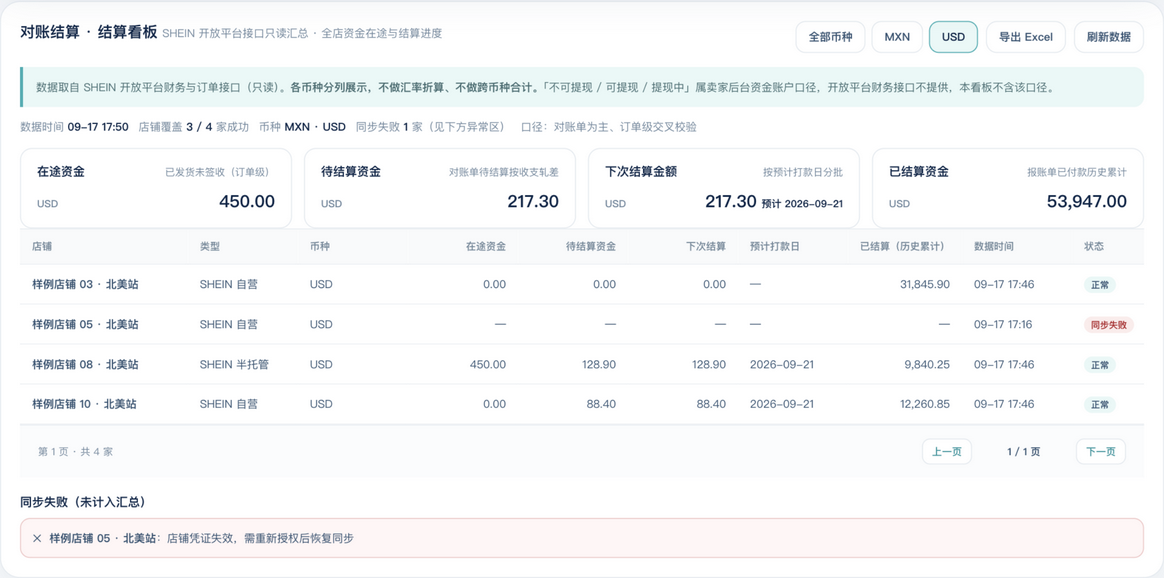
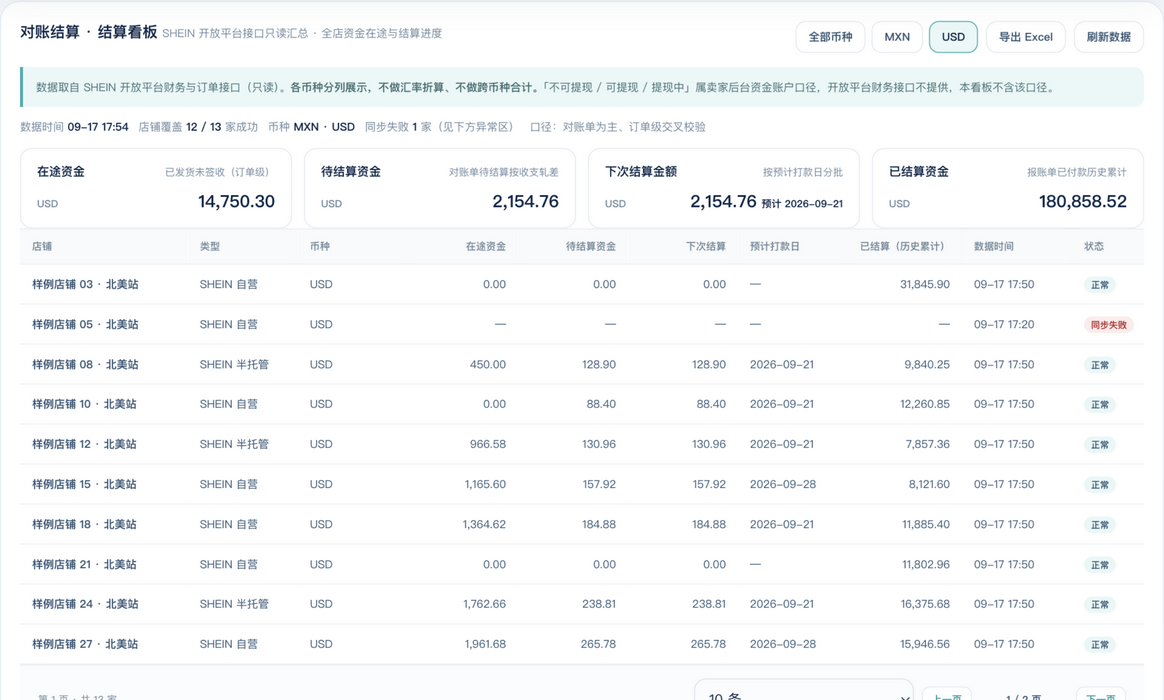
feat(finance): 结算看板店铺列表支持每页 10/30/50 条
- 分页控件新增每页条数下拉（10/30/50），沿用店铺授权模块先例：
  切换后回到第 1 页（避免停在不存在的页码），选择持久化到本机
  localStorage（xynigo.settleDashboard.pageSize），重新打开沿用上次选择
- 原固定 8 条/页改为按状态取值；翻页边界与按钮禁用态同步按当前条数计算
- 演示数据由 10 家补齐到 36 家：条数少于此前的固定值时看不出 10/30/50
  的差别，补齐后 10 条=4 页、30 条=2 页、50 条=1 页，便于评审直观核对；
  取值按下标确定性生成（不用随机数），保证每次刷新与截图可复现
- 新增截图 03-每页条数-30.png；需求文档补录分页条数说明

diff --git a/cloud/auth-service/src/xynigo_auth/web/index.html b/cloud/auth-service/src/xynigo_auth/web/index.html
@@ -3610,6 +3610,9 @@ body:has(#procurementImportPanel:not(.hidden)) main>.hero{display:none}
       <div class="procurement-pagination">
         <span class="procurement-pagination-copy" id="settlePageInfo">—</span>
         <div class="procurement-pagination-actions">
+          <select id="settlePageSize" aria-label="每页显示店铺数">
+            <option value="10">10 条</option><option value="30">30 条</option><option value="50">50 条</option>
+          </select>
           <button class="btn-mini" id="btnSettlePrev" type="button" disabled>上一页</button>
           <span id="settlePageIndicator">—</span>
           <button class="btn-mini" id="btnSettleNext" type="button" disabled>下一页</button>
@@ -13704,13 +13707,27 @@ function setFeaturePanel(module) {
  */
 let settleDashboardLoaded = false;
 const SETTLE_CURRENCY_LABELS = { MXN: '墨西哥比索', USD: '美元' };
-const SETTLE_PAGE_SIZE = 8;
-const SETTLE_STATE = { currency: 'ALL', page: 1, stores: null, refreshedAt: null };
+const SETTLE_PAGE_SIZES = [10, 30, 50];
+const SETTLE_PAGE_SIZE_KEY = 'xynigo.settleDashboard.pageSize';
+const SETTLE_STATE = {
+  currency: 'ALL', page: 1, pageSize: 10, stores: null, refreshedAt: null
+};
+
+function settleLoadPageSize() {
+  try {
+    const v = Number(localStorage.getItem(SETTLE_PAGE_SIZE_KEY));
+    if (SETTLE_PAGE_SIZES.includes(v)) SETTLE_STATE.pageSize = v;
+  } catch (e) { /* 忽略本地存储异常 */ }
+}
+
+function settleSavePageSize(v) {
+  try { localStorage.setItem(SETTLE_PAGE_SIZE_KEY, String(v)); } catch (e) { /* 忽略 */ }
+}
 
 function settleMockStores() {
   const fresh = Date.now() - 4 * 60 * 1000;
   const stale = Date.now() - 34 * 60 * 1000;
-  return [
+  const rows = [
     { name: '样例店铺 01 · 拉美站', mode: 'SHEIN 自营', currency: 'MXN',
       inTransit: 4820.50, unsettled: 945.16, nextSettle: 945.16,
       nextPayDate: '2026-09-21', settled: 48620.35, at: fresh, status: 'ok', note: '' },
@@ -13746,6 +13763,31 @@ function settleMockStores() {
       inTransit: 0.00, unsettled: 88.40, nextSettle: 88.40,
       nextPayDate: '2026-09-21', settled: 12260.85, at: fresh, status: 'ok', note: '' }
   ];
+  // 原型需要足够行数才能体现每页 10/30/50 条的差别，故补齐到 36 家；
+  // 取值按下标确定性生成（不用随机数），保证每次刷新与截图可复现。
+  const duePool = ['2026-09-21', '2026-09-28'];
+  for (let i = 11; i <= 36; i += 1) {
+    const mxn = i % 3 !== 0;                 // 约 2/3 为比索店
+    const currency = mxn ? 'MXN' : 'USD';
+    const base = mxn ? 900 + i * 137.25 : 55 + i * 21.40;
+    const idle = i % 7 === 0;                // 少数店铺当前无在途/待结算
+    const amount = idle ? 0 : Number((base * 0.42).toFixed(2));
+    const flagged = i % 11 === 0;
+    rows.push({
+      name: `样例店铺 ${String(i).padStart(2, '0')} · ${mxn ? '拉美站' : '北美站'}`,
+      mode: i % 4 === 0 ? 'SHEIN 半托管' : 'SHEIN 自营',
+      currency,
+      inTransit: idle ? 0 : Number((base * 3.10).toFixed(2)),
+      unsettled: amount,
+      nextSettle: amount,
+      nextPayDate: idle ? '' : duePool[i % 2],
+      settled: Number((base * (12 + (i % 5)) * 1.80).toFixed(2)),
+      at: fresh,
+      status: flagged ? 'warn' : 'ok',
+      note: flagged ? '对账单存在支出行，订单侧不回更；已按对账单轧差修正' : ''
+    });
+  }
+  return rows;
 }
 
 function settleMoney(value) {
@@ -13866,10 +13908,11 @@ function settleRenderTable() {
   const body = $('settleStoreTbody');
   if (!body) return;
   const stores = settleScopedStores();
-  const pages = Math.max(1, Math.ceil(stores.length / SETTLE_PAGE_SIZE));
+  const pageSize = SETTLE_STATE.pageSize;
+  const pages = Math.max(1, Math.ceil(stores.length / pageSize));
   if (SETTLE_STATE.page > pages) SETTLE_STATE.page = pages;
-  const start = (SETTLE_STATE.page - 1) * SETTLE_PAGE_SIZE;
-  const rows = stores.slice(start, start + SETTLE_PAGE_SIZE);
+  const start = (SETTLE_STATE.page - 1) * pageSize;
+  const rows = stores.slice(start, start + pageSize);
   if (!rows.length) {
     body.innerHTML = '<tr><td colspan="10" class="admin-empty">当前币种下没有已授权店铺</td></tr>';
   } else {
@@ -14021,17 +14064,30 @@ function refreshSettlementDashboard() {
 }
 
 function initSettlementDashboard() {
+  settleLoadPageSize();
   refreshSettlementDashboard();
   $('btnSettleExport').onclick = () => exportSettlementDashboard();
   $('btnSettleRefresh').onclick = () => {
     refreshSettlementDashboard();
     toast('结算看板已刷新（原型演示数据）');
   };
+  const sizeSel = $('settlePageSize');
+  if (sizeSel) {
+    sizeSel.value = String(SETTLE_STATE.pageSize);
+    sizeSel.onchange = () => {
+      const picked = Number(sizeSel.value);
+      SETTLE_STATE.pageSize = SETTLE_PAGE_SIZES.includes(picked) ? picked : 10;
+      settleSavePageSize(SETTLE_STATE.pageSize);
+      SETTLE_STATE.page = 1; // 每页条数变化后回到第 1 页，避免停在不存在的页码
+      settleRenderTable();
+    };
+  }
   $('btnSettlePrev').onclick = () => {
     if (SETTLE_STATE.page > 1) { SETTLE_STATE.page -= 1; settleRenderTable(); }
   };
   $('btnSettleNext').onclick = () => {
-    const pages = Math.max(1, Math.ceil(settleScopedStores().length / SETTLE_PAGE_SIZE));
+    const pages = Math.max(1,
+      Math.ceil(settleScopedStores().length / SETTLE_STATE.pageSize));
     if (SETTLE_STATE.page < pages) { SETTLE_STATE.page += 1; settleRenderTable(); }
   };
 }

diff --git a/docs/prototypes/20260917-settlement-dashboard/本地预览-结算看板.html b/docs/prototypes/20260917-settlement-dashboard/本地预览-结算看板.html
@@ -3610,6 +3610,9 @@ body:has(#procurementImportPanel:not(.hidden)) main>.hero{display:none}
       <div class="procurement-pagination">
         <span class="procurement-pagination-copy" id="settlePageInfo">—</span>
         <div class="procurement-pagination-actions">
+          <select id="settlePageSize" aria-label="每页显示店铺数">
+            <option value="10">10 条</option><option value="30">30 条</option><option value="50">50 条</option>
+          </select>
           <button class="btn-mini" id="btnSettlePrev" type="button" disabled>上一页</button>
           <span id="settlePageIndicator">—</span>
           <button class="btn-mini" id="btnSettleNext" type="button" disabled>下一页</button>
@@ -13704,13 +13707,27 @@ function setFeaturePanel(module) {
  */
 let settleDashboardLoaded = false;
 const SETTLE_CURRENCY_LABELS = { MXN: '墨西哥比索', USD: '美元' };
-const SETTLE_PAGE_SIZE = 8;
-const SETTLE_STATE = { currency: 'ALL', page: 1, stores: null, refreshedAt: null };
+const SETTLE_PAGE_SIZES = [10, 30, 50];
+const SETTLE_PAGE_SIZE_KEY = 'xynigo.settleDashboard.pageSize';
+const SETTLE_STATE = {
+  currency: 'ALL', page: 1, pageSize: 10, stores: null, refreshedAt: null
+};
+
+function settleLoadPageSize() {
+  try {
+    const v = Number(localStorage.getItem(SETTLE_PAGE_SIZE_KEY));
+    if (SETTLE_PAGE_SIZES.includes(v)) SETTLE_STATE.pageSize = v;
+  } catch (e) { /* 忽略本地存储异常 */ }
+}
+
+function settleSavePageSize(v) {
+  try { localStorage.setItem(SETTLE_PAGE_SIZE_KEY, String(v)); } catch (e) { /* 忽略 */ }
+}
 
 function settleMockStores() {
   const fresh = Date.now() - 4 * 60 * 1000;
   const stale = Date.now() - 34 * 60 * 1000;
-  return [
+  const rows = [
     { name: '样例店铺 01 · 拉美站', mode: 'SHEIN 自营', currency: 'MXN',
       inTransit: 4820.50, unsettled: 945.16, nextSettle: 945.16,
       nextPayDate: '2026-09-21', settled: 48620.35, at: fresh, status: 'ok', note: '' },
@@ -13746,6 +13763,31 @@ function settleMockStores() {
       inTransit: 0.00, unsettled: 88.40, nextSettle: 88.40,
       nextPayDate: '2026-09-21', settled: 12260.85, at: fresh, status: 'ok', note: '' }
   ];
+  // 原型需要足够行数才能体现每页 10/30/50 条的差别，故补齐到 36 家；
+  // 取值按下标确定性生成（不用随机数），保证每次刷新与截图可复现。
+  const duePool = ['2026-09-21', '2026-09-28'];
+  for (let i = 11; i <= 36; i += 1) {
+    const mxn = i % 3 !== 0;                 // 约 2/3 为比索店
+    const currency = mxn ? 'MXN' : 'USD';
+    const base = mxn ? 900 + i * 137.25 : 55 + i * 21.40;
+    const idle = i % 7 === 0;                // 少数店铺当前无在途/待结算
+    const amount = idle ? 0 : Number((base * 0.42).toFixed(2));
+    const flagged = i % 11 === 0;
+    rows.push({
+      name: `样例店铺 ${String(i).padStart(2, '0')} · ${mxn ? '拉美站' : '北美站'}`,
+      mode: i % 4 === 0 ? 'SHEIN 半托管' : 'SHEIN 自营',
+      currency,
+      inTransit: idle ? 0 : Number((base * 3.10).toFixed(2)),
+      unsettled: amount,
+      nextSettle: amount,
+      nextPayDate: idle ? '' : duePool[i % 2],
+      settled: Number((base * (12 + (i % 5)) * 1.80).toFixed(2)),
+      at: fresh,
+      status: flagged ? 'warn' : 'ok',
+      note: flagged ? '对账单存在支出行，订单侧不回更；已按对账单轧差修正' : ''
+    });
+  }
+  return rows;
 }
 
 function settleMoney(value) {
@@ -13866,10 +13908,11 @@ function settleRenderTable() {
   const body = $('settleStoreTbody');
   if (!body) return;
   const stores = settleScopedStores();
-  const pages = Math.max(1, Math.ceil(stores.length / SETTLE_PAGE_SIZE));
+  const pageSize = SETTLE_STATE.pageSize;
+  const pages = Math.max(1, Math.ceil(stores.length / pageSize));
   if (SETTLE_STATE.page > pages) SETTLE_STATE.page = pages;
-  const start = (SETTLE_STATE.page - 1) * SETTLE_PAGE_SIZE;
-  const rows = stores.slice(start, start + SETTLE_PAGE_SIZE);
+  const start = (SETTLE_STATE.page - 1) * pageSize;
+  const rows = stores.slice(start, start + pageSize);
   if (!rows.length) {
     body.innerHTML = '<tr><td colspan="10" class="admin-empty">当前币种下没有已授权店铺</td></tr>';
   } else {
@@ -14021,17 +14064,30 @@ function refreshSettlementDashboard() {
 }
 
 function initSettlementDashboard() {
+  settleLoadPageSize();
   refreshSettlementDashboard();
   $('btnSettleExport').onclick = () => exportSettlementDashboard();
   $('btnSettleRefresh').onclick = () => {
     refreshSettlementDashboard();
     toast('结算看板已刷新（原型演示数据）');
   };
+  const sizeSel = $('settlePageSize');
+  if (sizeSel) {
+    sizeSel.value = String(SETTLE_STATE.pageSize);
+    sizeSel.onchange = () => {
+      const picked = Number(sizeSel.value);
+      SETTLE_STATE.pageSize = SETTLE_PAGE_SIZES.includes(picked) ? picked : 10;
+      settleSavePageSize(SETTLE_STATE.pageSize);
+      SETTLE_STATE.page = 1; // 每页条数变化后回到第 1 页，避免停在不存在的页码
+      settleRenderTable();
+    };
+  }
   $('btnSettlePrev').onclick = () => {
     if (SETTLE_STATE.page > 1) { SETTLE_STATE.page -= 1; settleRenderTable(); }
   };
   $('btnSettleNext').onclick = () => {
-    const pages = Math.max(1, Math.ceil(settleScopedStores().length / SETTLE_PAGE_SIZE));
+    const pages = Math.max(1,
+      Math.ceil(settleScopedStores().length / SETTLE_STATE.pageSize));
     if (SETTLE_STATE.page < pages) { SETTLE_STATE.page += 1; settleRenderTable(); }
   };
 }

diff --git a/src/purchase_tool/web/index.html b/src/purchase_tool/web/index.html
@@ -3610,6 +3610,9 @@ body:has(#procurementImportPanel:not(.hidden)) main>.hero{display:none}
       <div class="procurement-pagination">
         <span class="procurement-pagination-copy" id="settlePageInfo">—</span>
         <div class="procurement-pagination-actions">
+          <select id="settlePageSize" aria-label="每页显示店铺数">
+            <option value="10">10 条</option><option value="30">30 条</option><option value="50">50 条</option>
+          </select>
           <button class="btn-mini" id="btnSettlePrev" type="button" disabled>上一页</button>
           <span id="settlePageIndicator">—</span>
           <button class="btn-mini" id="btnSettleNext" type="button" disabled>下一页</button>
@@ -13704,13 +13707,27 @@ function setFeaturePanel(module) {
  */
 let settleDashboardLoaded = false;
 const SETTLE_CURRENCY_LABELS = { MXN: '墨西哥比索', USD: '美元' };
-const SETTLE_PAGE_SIZE = 8;
-const SETTLE_STATE = { currency: 'ALL', page: 1, stores: null, refreshedAt: null };
+const SETTLE_PAGE_SIZES = [10, 30, 50];
+const SETTLE_PAGE_SIZE_KEY = 'xynigo.settleDashboard.pageSize';
+const SETTLE_STATE = {
+  currency: 'ALL', page: 1, pageSize: 10, stores: null, refreshedAt: null
+};
+
+function settleLoadPageSize() {
+  try {
+    const v = Number(localStorage.getItem(SETTLE_PAGE_SIZE_KEY));
+    if (SETTLE_PAGE_SIZES.includes(v)) SETTLE_STATE.pageSize = v;
+  } catch (e) { /* 忽略本地存储异常 */ }
+}
+
+function settleSavePageSize(v) {
+  try { localStorage.setItem(SETTLE_PAGE_SIZE_KEY, String(v)); } catch (e) { /* 忽略 */ }
+}
 
 function settleMockStores() {
   const fresh = Date.now() - 4 * 60 * 1000;
   const stale = Date.now() - 34 * 60 * 1000;
-  return [
+  const rows = [
     { name: '样例店铺 01 · 拉美站', mode: 'SHEIN 自营', currency: 'MXN',
       inTransit: 4820.50, unsettled: 945.16, nextSettle: 945.16,
       nextPayDate: '2026-09-21', settled: 48620.35, at: fresh, status: 'ok', note: '' },
@@ -13746,6 +13763,31 @@ function settleMockStores() {
       inTransit: 0.00, unsettled: 88.40, nextSettle: 88.40,
       nextPayDate: '2026-09-21', settled: 12260.85, at: fresh, status: 'ok', note: '' }
   ];
+  // 原型需要足够行数才能体现每页 10/30/50 条的差别，故补齐到 36 家；
+  // 取值按下标确定性生成（不用随机数），保证每次刷新与截图可复现。
+  const duePool = ['2026-09-21', '2026-09-28'];
+  for (let i = 11; i <= 36; i += 1) {
+    const mxn = i % 3 !== 0;                 // 约 2/3 为比索店
+    const currency = mxn ? 'MXN' : 'USD';
+    const base = mxn ? 900 + i * 137.25 : 55 + i * 21.40;
+    const idle = i % 7 === 0;                // 少数店铺当前无在途/待结算
+    const amount = idle ? 0 : Number((base * 0.42).toFixed(2));
+    const flagged = i % 11 === 0;
+    rows.push({
+      name: `样例店铺 ${String(i).padStart(2, '0')} · ${mxn ? '拉美站' : '北美站'}`,
+      mode: i % 4 === 0 ? 'SHEIN 半托管' : 'SHEIN 自营',
+      currency,
+      inTransit: idle ? 0 : Number((base * 3.10).toFixed(2)),
+      unsettled: amount,
+      nextSettle: amount,
+      nextPayDate: idle ? '' : duePool[i % 2],
+      settled: Number((base * (12 + (i % 5)) * 1.80).toFixed(2)),
+      at: fresh,
+      status: flagged ? 'warn' : 'ok',
+      note: flagged ? '对账单存在支出行，订单侧不回更；已按对账单轧差修正' : ''
+    });
+  }
+  return rows;
 }
 
 function settleMoney(value) {
@@ -13866,10 +13908,11 @@ function settleRenderTable() {
   const body = $('settleStoreTbody');
   if (!body) return;
   const stores = settleScopedStores();
-  const pages = Math.max(1, Math.ceil(stores.length / SETTLE_PAGE_SIZE));
+  const pageSize = SETTLE_STATE.pageSize;
+  const pages = Math.max(1, Math.ceil(stores.length / pageSize));
   if (SETTLE_STATE.page > pages) SETTLE_STATE.page = pages;
-  const start = (SETTLE_STATE.page - 1) * SETTLE_PAGE_SIZE;
-  const rows = stores.slice(start, start + SETTLE_PAGE_SIZE);
+  const start = (SETTLE_STATE.page - 1) * pageSize;
+  const rows = stores.slice(start, start + pageSize);
   if (!rows.length) {
     body.innerHTML = '<tr><td colspan="10" class="admin-empty">当前币种下没有已授权店铺</td></tr>';
   } else {
@@ -14021,17 +14064,30 @@ function refreshSettlementDashboard() {
 }
 
 function initSettlementDashboard() {
+  settleLoadPageSize();
   refreshSettlementDashboard();
   $('btnSettleExport').onclick = () => exportSettlementDashboard();
   $('btnSettleRefresh').onclick = () => {
     refreshSettlementDashboard();
     toast('结算看板已刷新（原型演示数据）');
   };
+  const sizeSel = $('settlePageSize');
+  if (sizeSel) {
+    sizeSel.value = String(SETTLE_STATE.pageSize);
+    sizeSel.onchange = () => {
+      const picked = Number(sizeSel.value);
+      SETTLE_STATE.pageSize = SETTLE_PAGE_SIZES.includes(picked) ? picked : 10;
+      settleSavePageSize(SETTLE_STATE.pageSize);
+      SETTLE_STATE.page = 1; // 每页条数变化后回到第 1 页，避免停在不存在的页码
+      settleRenderTable();
+    };
+  }
   $('btnSettlePrev').onclick = () => {
     if (SETTLE_STATE.page > 1) { SETTLE_STATE.page -= 1; settleRenderTable(); }
   };
   $('btnSettleNext').onclick = () => {
-    const pages = Math.max(1, Math.ceil(settleScopedStores().length / SETTLE_PAGE_SIZE));
+    const pages = Math.max(1,
+      Math.ceil(settleScopedStores().length / SETTLE_STATE.pageSize));
     if (SETTLE_STATE.page < pages) { SETTLE_STATE.page += 1; settleRenderTable(); }
   };
 }

diff --git a/docs/20260917_需求_财务中心结算看板.md b/docs/20260917_需求_财务中心结算看板.md
@@ -135,6 +135,7 @@
 2. **店铺明细表**
    - 列：店铺 · 类型（自营/半托管）· 币种 · 在途 · 待结算 · 下次结算 · 预计打款日 · 已结算（历史累计）· 数据时间 · 状态
    - 支持排序、筛选、翻页（沿用既有 `procurement-pagination` 分页）
+   - **每页条数可设 10 / 30 / 50**（沿用店铺授权模块先例）；切换后回到第 1 页，选择持久化到本机（`xynigo.settleDashboard.pageSize`）
 3. **对账异常与失败区**
    - 订单级聚合 vs 对账单净额的差额（超阈值告警）——这是结算调整与数据异常的雷达
    - 同步失败的店铺与具体原因（凭证失效 / 无权限 / 限流 / 窗口越界）
